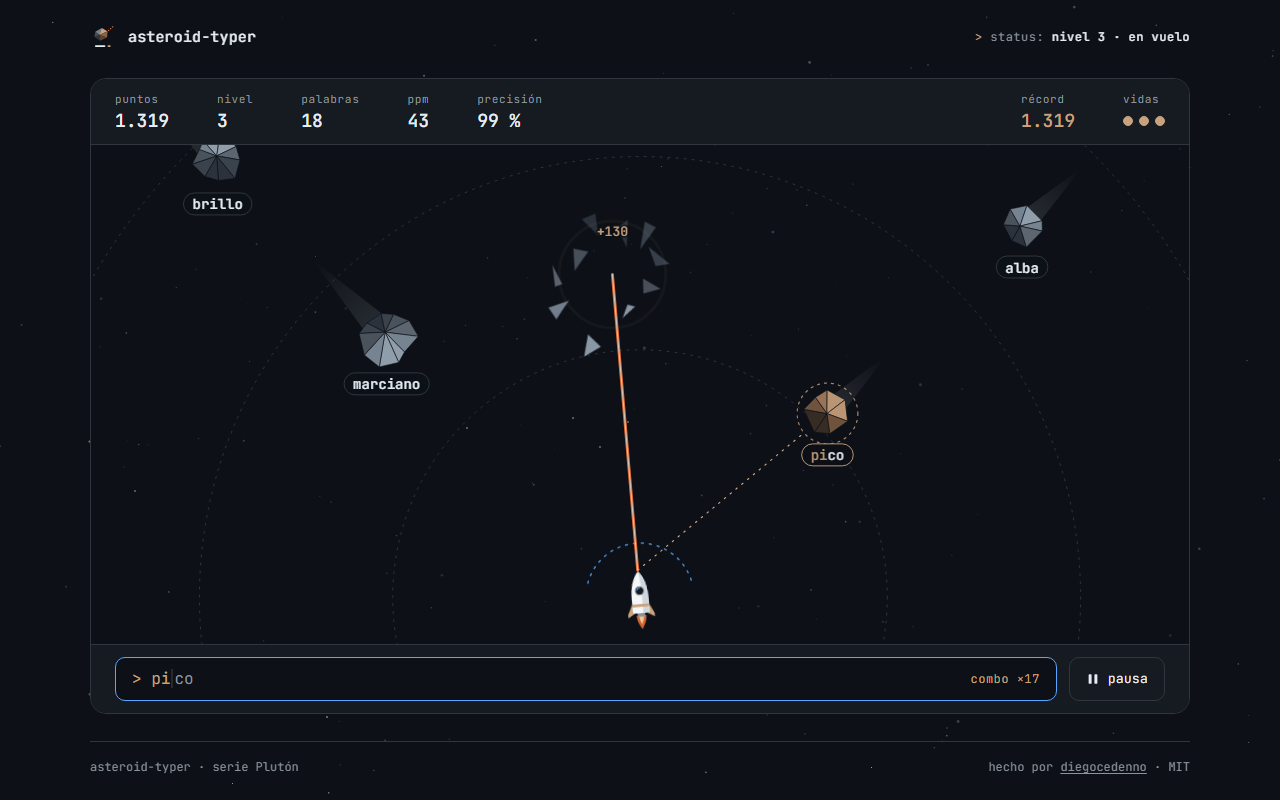
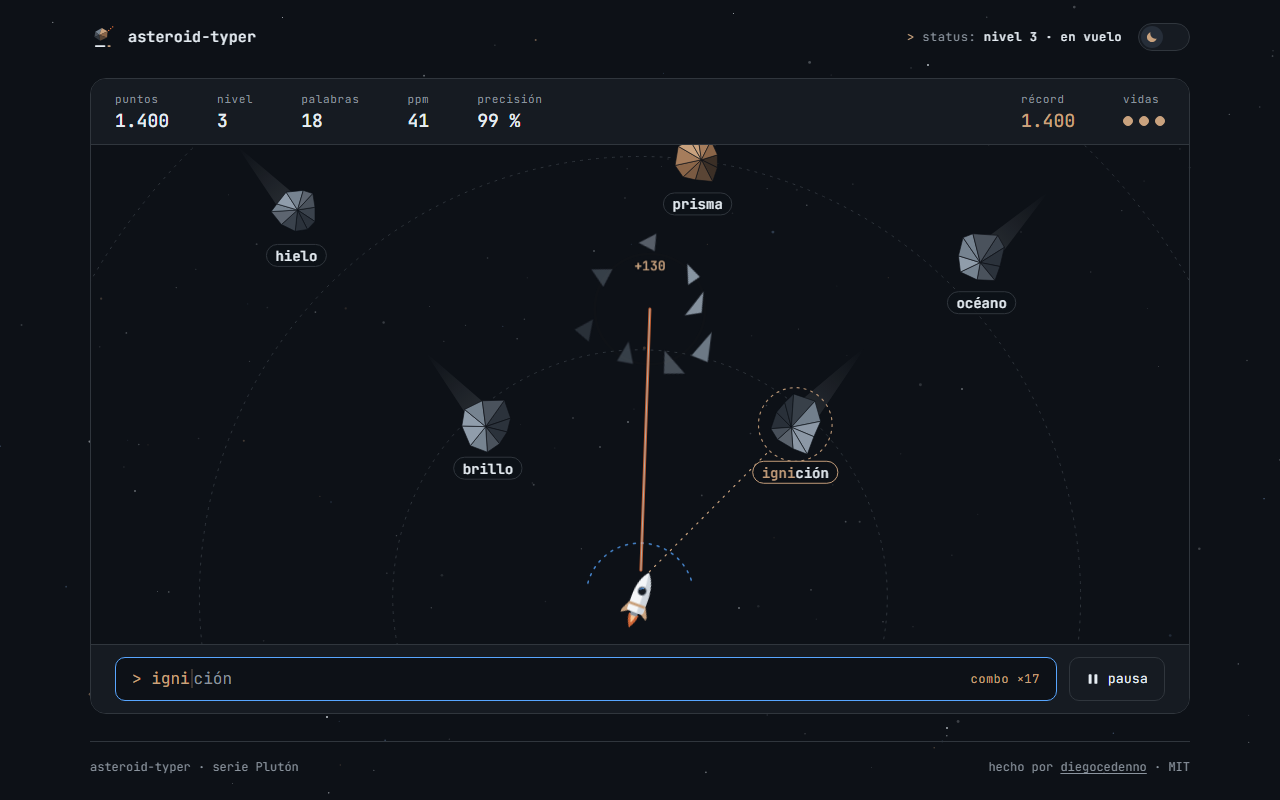
docs: mention the theme switch and refresh previews

diff --git a/README.md b/README.md
@@ -22,6 +22,7 @@
 - Every 8 words the level goes up: faster falls, more asteroids, longer words. Consecutive words without a mistake build a combo.
 - The HUD tracks score, level, words, WPM (`correct characters / 5 / minutes played`), accuracy and your record, which is kept in `localStorage`.
 - Word language: Spanish, English or mixed (600+ words, grouped by length). A calm mode slows everything down.
+- A switch in the header flips between dark and light mode: the same sky redrawn as a star chart on paper, even mid-game and without pausing. The choice is remembered and shared across the Plutón series.
 
 ### What makes it technically interesting
 
@@ -68,6 +69,7 @@ It also works as-is on GitHub Pages.
 - Cada 8 palabras sube el nivel: caída más rápida, más asteroides y palabras más largas. Las palabras seguidas sin fallo acumulan combo.
 - El marcador lleva puntos, nivel, palabras, PPM (`caracteres correctos / 5 / minutos jugados`), precisión y tu récord, que se guarda en `localStorage`.
 - Idioma de las palabras: español, inglés o mixto (más de 600 palabras, agrupadas por longitud). El modo calma lo ralentiza todo.
+- Un interruptor en la cabecera alterna entre modo oscuro y claro: el mismo cielo redibujado como carta estelar sobre papel, también en plena partida y sin pausarla. La elección se recuerda y se comparte entre los proyectos de la serie Plutón.
 
 ### Qué lo hace interesante técnicamente
 
